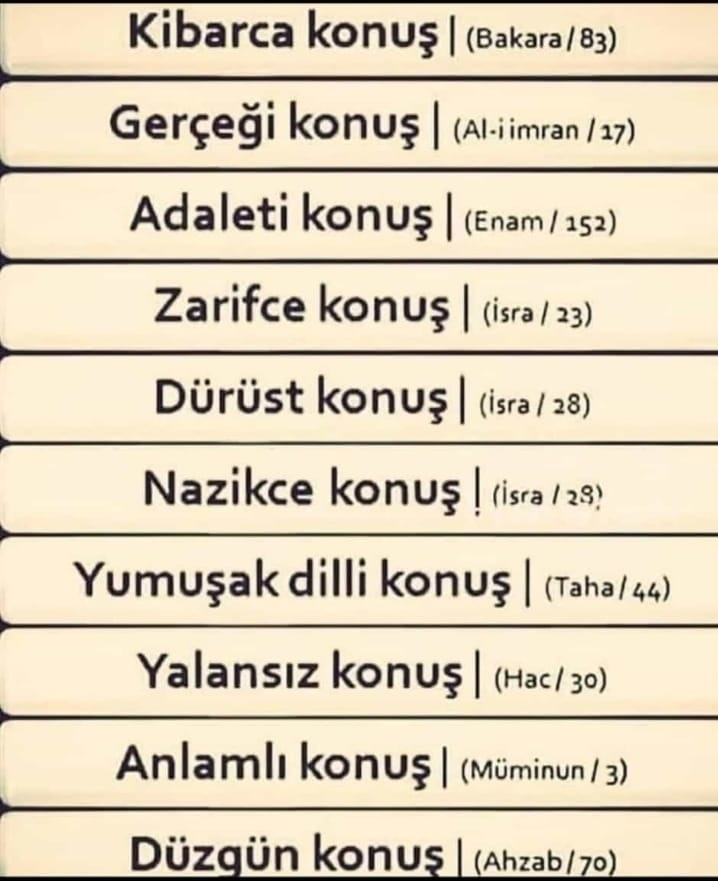
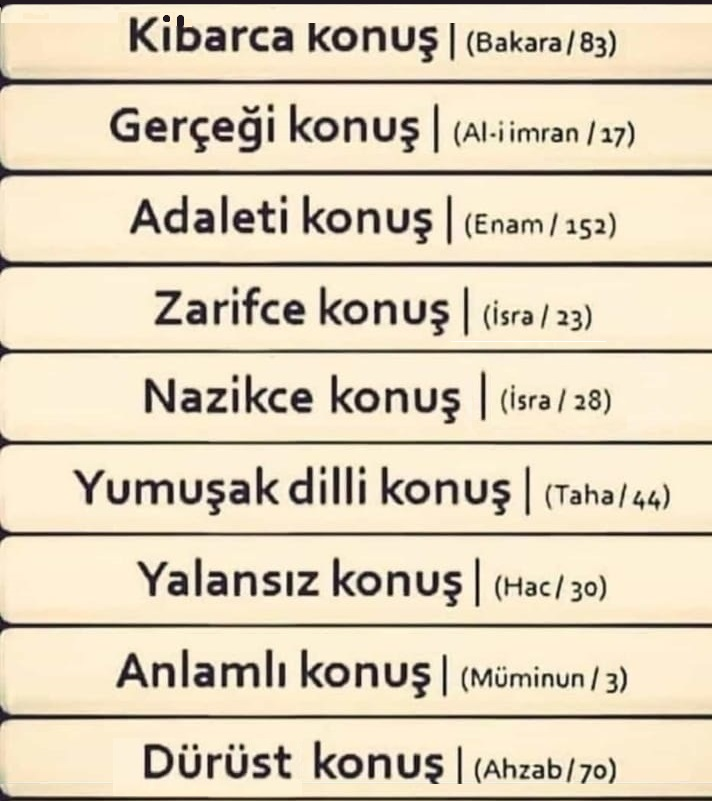
cuma/sozler

diff --git a/rama/1445.html b/rama/1445.html
@@ -28,13 +28,13 @@
 <p>11 Mart 2024 Pazartesi günü başlayan Ramazan ayında topladığımız meyveleri bir sayfada özetledim. Ayrıntılara ilgili linklerden erişebilirsiniz. Linklerden sonra gelen isimlere, ilgili konuya katkıları için teşekkür ederim.</p>
 
 <h3>Gece kâim, gündüz sâim</h3>
-<img src="./1445/Ramazan hadisi.png"><br>
+<img src="./1445/Ramazan hadisi.png" style="margin: 0 -8px 8px"><br>
 Ey insanlar! Üzerinize ulu bir ay gölgesini saldı <br>
 Kutsal ve bereketli bir ay <br>
 İçinde bin aydan hayırlı bir gece var <br>
 Allah onun siyâmını farz kıldı <br>
 Gece kıyâmını da tatavvu kıldı <br>
-<a href="https://groups.google.com/g/okuyun5/c/3ri41E_0Vtg" target="Kuran">Arşiv</a> &emsp; (E Coşan makalesi)
+<a href="https://groups.google.com/g/okuyun5/c/3ri41E_0Vtg" target="Kuran">Arşiv</a> &emsp; (E Coşan sohbeti)
 
 <h3>3. gün &ndash; Mescid-i Haram</h3>
 Kur'ân dilinde harâm kelimesinin iki anlamı var: <br>
@@ -45,14 +45,14 @@ inananlar için kutsal; inkarcılar için yasaklı, girilmez. <br>
 <a href="https://groups.google.com/g/okuyun5/c/uqdbw3VEAv8" target="Kuran">Arşiv</a>
 
 <h3>5. gün &ndash; Ramazan ayı ki... </h3>
-<img src="./1445/ramazan.jpg"><br>
+<img src="./1445/ramazan.jpg" width=300><br>
 2:185 <a name="v=2:185&r=qrA">Ramazan ayı ki içinde Kur’an indirildi</a> <br>
 <a href="https://nunkalem.blogspot.com/2024/03/ramazan2.html" target="Kuran">Nun vel-kalem</a> &emsp; (Hattat L Çelebi'nin seçtikleri)
 
 <h3>6. gün &ndash; "Ben neyim?"</h3>
 <img src="./1445/Mesnevi ilk satir.jpg" width=357><br>
 Kuran-ı Kerim korunmasaydı ne olurdu? İşte şu harikulade, insan eseri Mesnevi'nin ilk satırında görüldüğü gibi, sayısız farklı sürümleri olurdu! Madem ki Kuran'ın tek sürümü var, o halde hakikaten korunmuştur.<br>
-<a href="https://eyler.blogspot.com/2024/03/ben-neyim.html" target="Kuran">Damlalar</a> &emsp; (Sonuç cümlesi G Gülcü'den)
+<a href="https://eyler.blogspot.com/2024/03/ben-neyim.html" target="Kuran">Damlalar</a> &emsp; (S Nilchibar ve G Gülcü)
 
 <h3>8. gün &ndash; Bu yolda yalnız yürümek</h3>
 Sarı saçlı, beyaz tenli bir Amerikalı, her türlü kötü yolu denemiş, sonunda hapse düşmüş. Müslüman zenciler ona İslamı öğretmiş. Adam hapisten çıkınca yukarda gösterdiğim siteyi yapmış, nur yüzlü bir adam olmuş. Kaderin eli insanı böyle yoğuruyor, adi bir suçludan evliya doğuruyor. <br>
@@ -81,8 +81,7 @@ Amatör bir muvakkit olarak iki gözlem paylaşıyorum: <br>
 
 <h3>18. gün &ndash; Nasıl konuşmalı?</h3>
 <img src="./1445/sözler.jpg" width=237><br>
-Sözün gücünü vurgulayan ayetler <br>
-<a href="" target="Kuran"></a>(tamamlanacak) &emsp; (İ Gürol gönderdi)
+<a href="../cuma/sozler.html" target="finder">Sözün gücü</a> &emsp; (Ayetleri İ Gürol seçti)
 
 <h3>19. gece &ndash; Tahriflerden Korunma Yöntemi</h3>
 Şimdi anlıyorum ki, teravihin asıl amacı Kuran'ı ayakta ve namaz içinde okumak. Bu nedenle "Kuran namazı" ya da "Kıyam namazı" gibi isimleri var başka ülkelerde. Rüku ve secdeler Kuran tilavetini süsleyen yan ürünler oluyor. <br>
@@ -127,7 +126,7 @@ Kadir Gecesi de böyle hayırlı, on gece değil, bin aydan daha çok... <br>
 
 <h3>29. gece &ndash; Uydurulmuş bir hadis değil </h3>
 <img src="./1445/Kuranda hadis.jpg" width=360><br>
-<a href="/Kitap/cuma/hadis.html" target="finder">Kuranda hadis</a> &emsp; (Ayetleri E Türe seçti)
+<a href="../cuma/hadis.html" target="finder">Kuranda hadis</a> &emsp; (Ayetleri E Türe seçti)
 
 <h3>Bayram &ndash; Felaha ermek </h3>
 <img src="./1445/men tezekka.jpg" width=320><br>

diff --git a/cuma/sozler.html b/cuma/sozler.html
@@ -1,0 +1,50 @@
+<!DOCTYPE html>
+<html lang="en-US">
+<meta charset="UTF-8">
+<meta name="viewport"    content="width=device-width">
+<meta name="author"      content="M A Eyler, Istanbul, 2024" />
+<meta name="description" content="Words from Quran" />
+<link rel="stylesheet" href="cuma.css" media="all">
+<link rel="icon" href="/Kuran/image/icon.png">
+<title>Sözümüz nasıl olmalı?</title>
+
+<body>
+<p class=it>Kitabımızda “kavl” kelimesinin geçtiği bazı ayetleri aşağıda bulacaksınız. Renkli ayet metnine dokununca, Iqra yazılımı içinde ayetin aslını görebilirsiniz.</p>
+<p>Ayetlerin seçimi: İsmail Gürol</p>
+
+<h2>Sözümüz nasıl olmalı?</h2>
+<div class="pre">Sözlükte “söz” anlamına gelen “kavl”  kelimesi Yüce Kitabımızda 92 kere geçiyor. Bunların bazıları bizim için davranış modeli:
+
+2:83 <b>veqûlû linnâsi husnâ</b>
+<a name="v=2:83&r=qwl">insanlara güzellikle söz söyleyin</a>
+
+3:17 <b>ves-sâdiqîn</b>
+<a name="v=3:17&r=Sdq">doğruluktan şaşmayanlar</a>
+
+6:152 <b>veizâ qultum fa'dilû</b>
+<a name="v=6:152&r=qwl">Söylediğiniz zaman âdil olun</a>
+
+17:23 <b>vequl lehumâ qavlen kerîmâ</b>
+<a name="v=17:23&r=qwl">İkisine de tatlı ve güzel söz söyle</a>
+
+17:28 <b>fequl lehum qavlen meysûrâ</b>
+<a name="v=17:28&r=qwl">yumuşak ve tatlı bir söz söyle</a>
+<img src="../rama/1445/sözler.jpg" width=237 style="margin: 1em 0 0">
+20:44 <b>fequlâ lehû qavlen leyyinâ</b>
+<a name="v=20:44&r=qwl">ona yumuşak söz söyleyin</a>
+
+22:30 <b>vectenibû qavlez-zûr</b>
+<a name="v=22:30&r=qwl">yalan sözden sakının</a>
+
+23:3 <b>'anil-lagvi mu'ridûn</b>
+<a name="v=23:3&r=lgw">boş şeylerden yüz çevirirler</a>
+
+33:70 <b>veqûlû qavlen sedîdâ</b>
+<a name="v=33:70&r=qwl">sağlam söz söyleyin</a>
+</div>
+<br><br>
+<p>Cuma dersleri
+    <button class=goBack>◀</button>
+</p>
+<script src="/Kitap/ders/init.js"></script>
+</body>

diff --git a/cuma/hadis.html b/cuma/hadis.html
@@ -2,7 +2,7 @@
 <html lang="en-US">
 <meta charset="UTF-8">
 <meta name="viewport"    content="width=device-width">
-<meta name="author"      content="M A Eyler, Istanbul, 2021" />
+<meta name="author"      content="M A Eyler, Istanbul, 2024" />
 <meta name="description" content="Words from Quran" />
 <link rel="stylesheet" href="cuma.css" media="all">
 <link rel="icon" href="/Kuran/image/icon.png">
@@ -51,7 +51,7 @@ Lehve’l-hadîs, “söz/hadis oyunu” demektir. Muhatabı yanıltma ve Kur’
 Zımnen: İnsanların bilgi açlığını kelime oyunları, laf cambazlıkları ya da keyif ve eğlence verici sözlerle bastırmaya kalkarak sözü bir uyuşturucu gibi kullanırlar.<br>
 Kur’an’a yeni bir âyet ilave edemeyenlerin, “hadis” adı altında Allah Rasûlü’ne isnatla uydurdukları sözler de bu âyetin kapsamına girer. Bu durumda Kur’an’ın “hadis oyunu” (lehve’l-hadis) ifadesi, mucizevî bir ihbar hüviyeti kazanır. Kur’an, içine indiği toplumun aklını “karanlık” ilan etmiş ve kendi hedefini “karanlıklardan aydınlığa çıkarmak” olarak belirlemiştir. Cahiliyye Arap geleneğini oluşturan bir çok inanç ve kültür, Kur’an’ın “karanlık” ilan ettiği aklın ürünüydü. Lehve’l-hadîs, Kur’an vahyi ile saf dışı bırakılan geleneksel cahiliyye itikadını İslam kültürüne dahil etme yönteminin de adı oldu. Kur’an’a açıktan itiraz edemeyenler, itirazlarını lehve’l-hadîs üzerinden yaptılar ve onu Kur’an’ın ortağı ilan ettiler. Bu “hadis oyunu”ndan en büyük zararı, Allah Rasûlü’nün mubarek ağzından dökülen ve asla sünnetullah ve Kur’an ile çelişmesi düşünülemeyecek olan gerçek ‘hadisler’ ve Kur’an’ın “örnek” gösterdiği davranışlar gördü.
 </blockquote>
-<p>Dersler 
+<p>Cuma dersleri
     <button class=goBack>◀</button>
 </p>
 <script src="/Kitap/ders/init.js"></script>

diff --git a/cuma/index.html b/cuma/index.html
@@ -57,6 +57,7 @@ href="https://www.youtube.com/playlist?list=PLBDiqooDrrutgeVuWmpz5619chQnpOGcA">
   <li><a href="quest.html">Self-Knowledge (Zaman)</a>
   <li><a href="inanc.html">Allah inancı (Çağrıcı)</a>
   <li><a href="hadis.html">Kuran'da hadis (E Türe)</a>
+  <li><a href="sozler.html">Sözün gücü (İ Gürol)</a>
   <li><a href="iktibas.html">Şiirde iktibas sanatı</a>
 </ul>
 </div>
